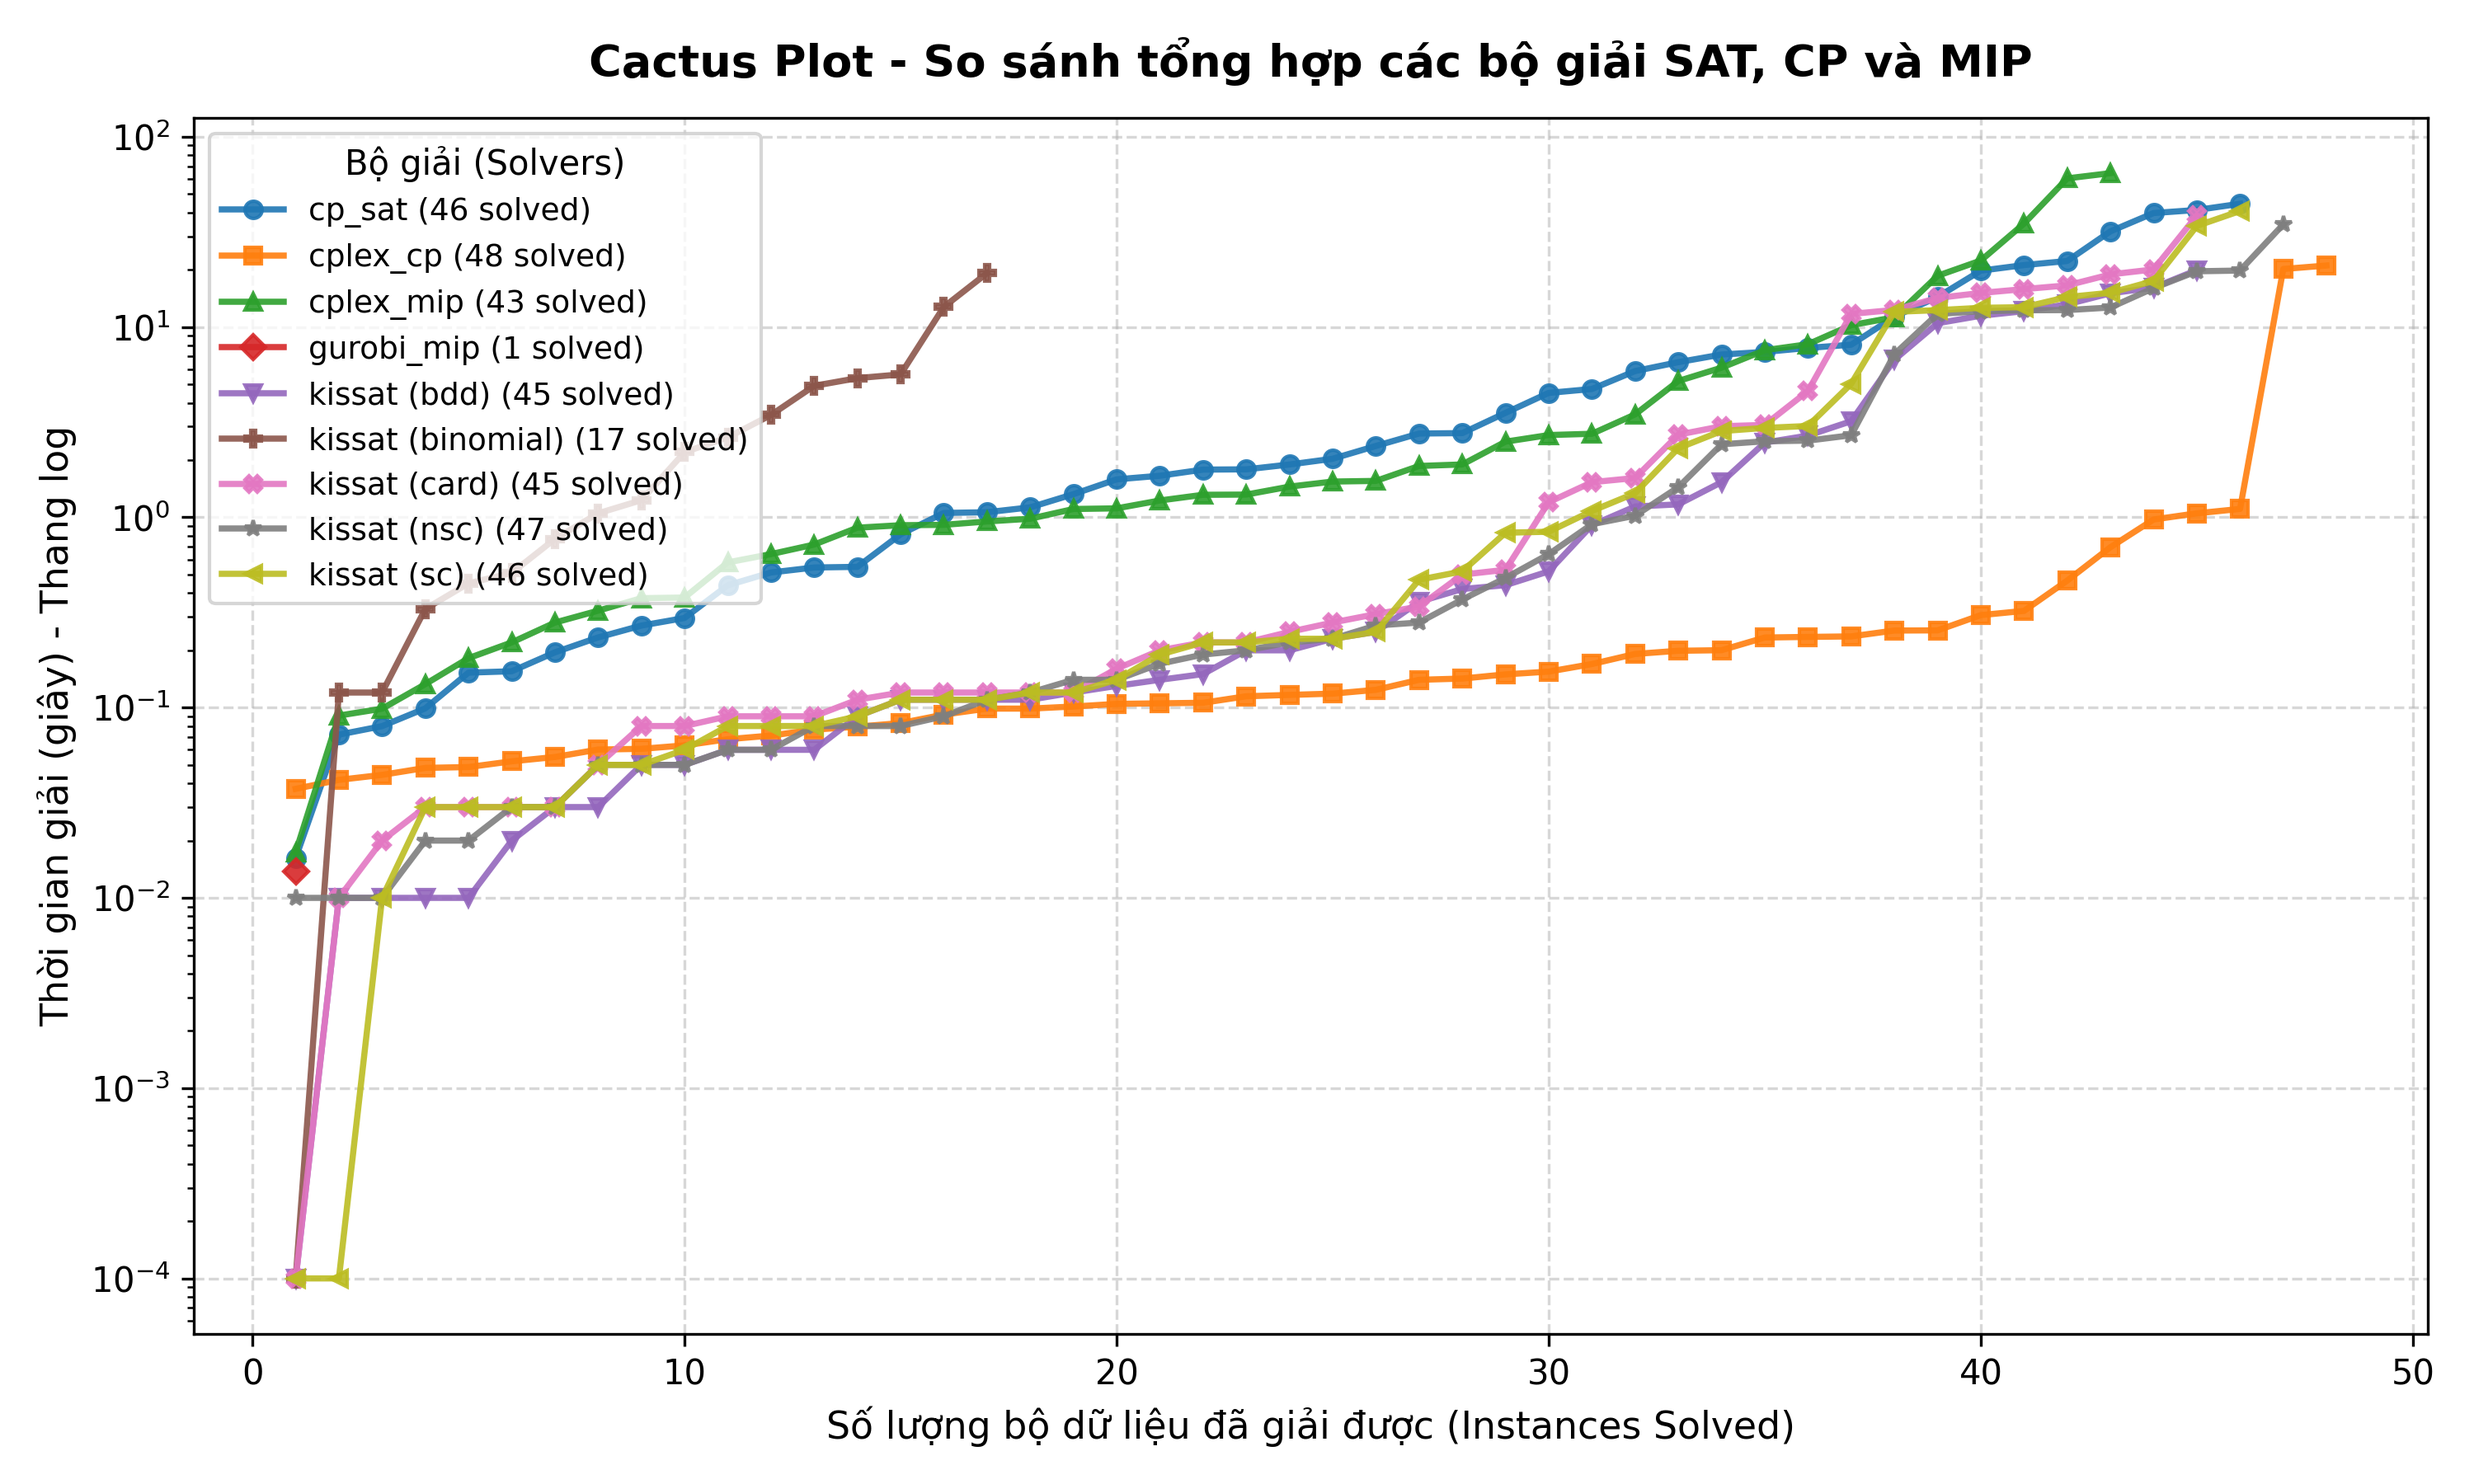
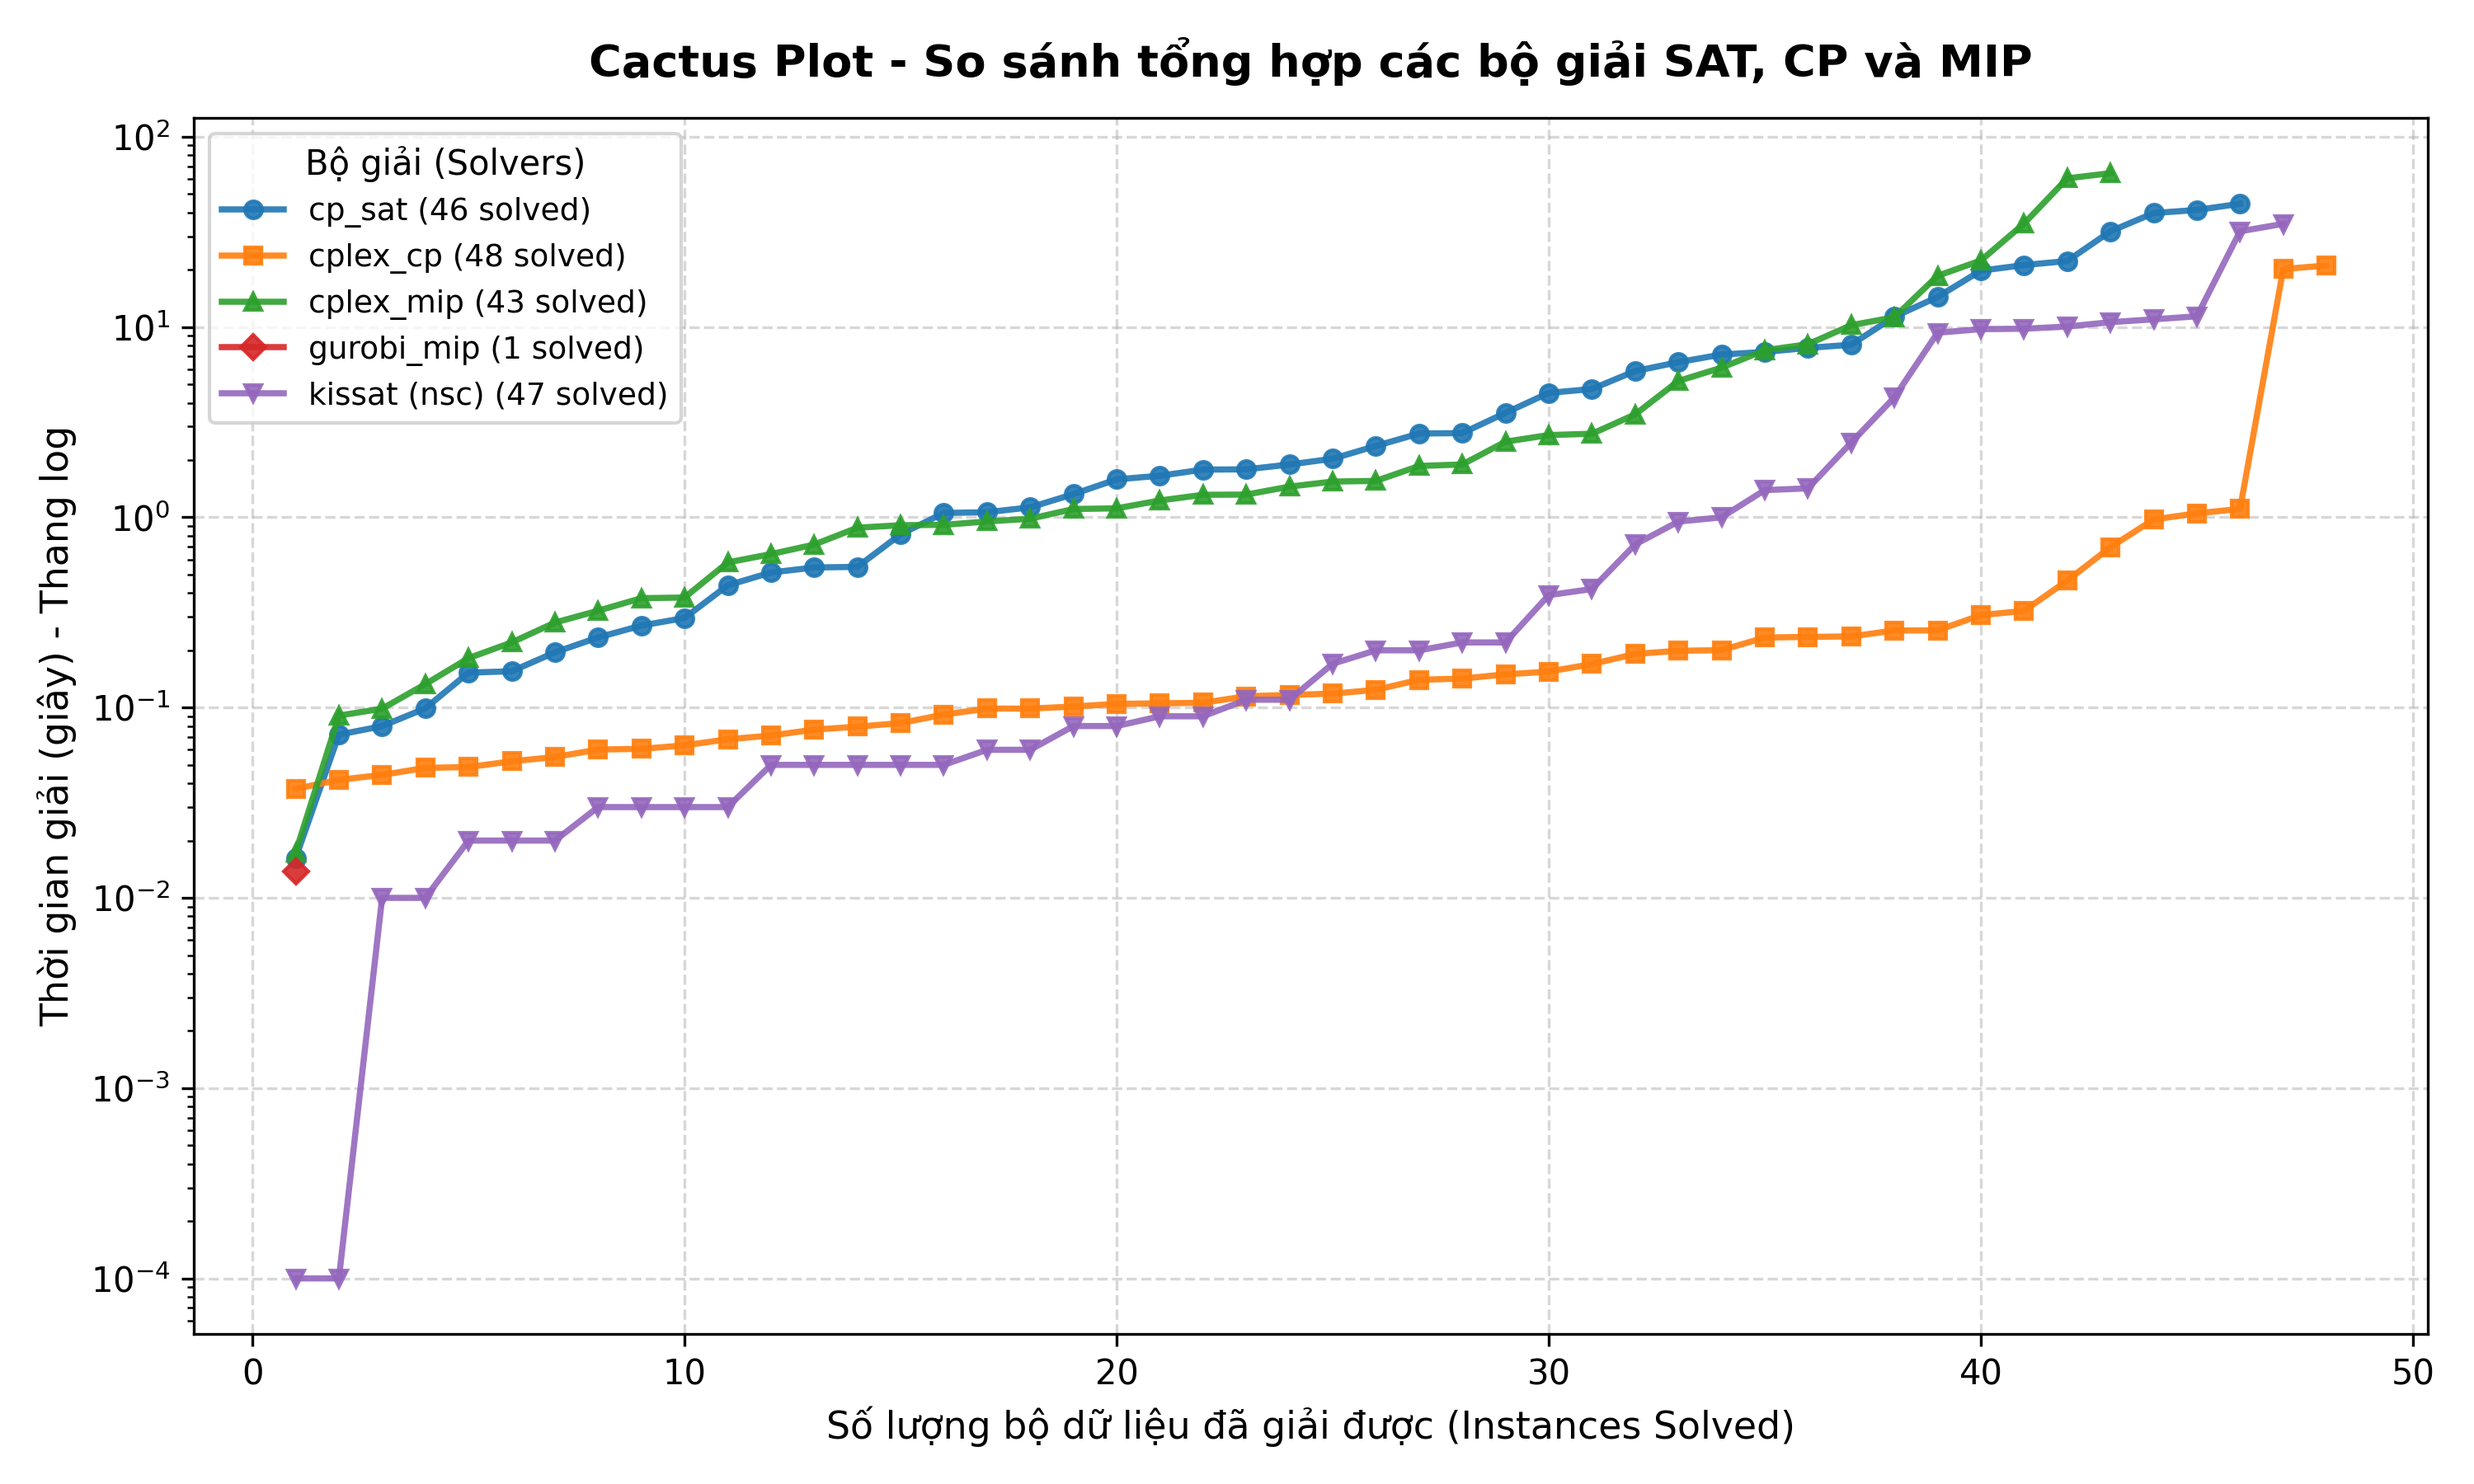
draw final cactus plot

diff --git a/benchmark/benchmark_all.py b/benchmark/benchmark_all.py
@@ -5,7 +5,7 @@ from pathlib import Path
 PROJECT_ROOT = Path(__file__).resolve().parent.parent
 
 # Đường dẫn tới các file đầu vào và đầu ra
-SAT_RESULTS_PATH = PROJECT_ROOT / "results" / "sat" / "encoding_results.csv"
+SAT_RESULTS_PATH = PROJECT_ROOT / "results" / "sat" / "sat_nsc_seqcounter_results.csv"
 MIP_RESULTS_PATH = PROJECT_ROOT / "results" / "mip" / "mip_results.csv"
 CP_RESULTS_PATH = PROJECT_ROOT / "results" / "cp" / "cp_results.csv"
 OUTPUT_PATH = PROJECT_ROOT / "results" / "final_comparison.csv"
